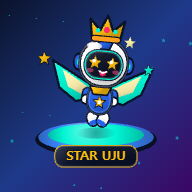
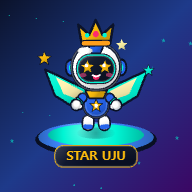
Fix chibi arm rotation sign and z-order, add wrist cuffs and seamless Astro-mitten gloves

Changed region(s): [[0.2188, 0.0625, 0.8125, 0.6875]]

diff --git a/js/art.js b/js/art.js
@@ -166,16 +166,26 @@ export class Art {
         this.rect(side*13-7,by+3,14,18,'#ffffff',7);
         this.rect(side*13-7,by+14,14,6,'#00f5d4',3);
       }
-      // Compact Chibi Bean Torso & Tiny Outstretched Paws
-      for(const side of [-1,1]){
-        const armWave=run?Math.sin(phase+(side>0?Math.PI:0)):0;
-        this.ellipse(side*28,-50+armWave*4,9,8,'#0b132b');
-        this.ellipse(side*28,-50+armWave*4,6,5.5,'#ffffff');
-      }
+      // Compact Chibi Bean Torso
       this.rect(-24,-74,48,54,'#0b132b',22);
       this.rect(-20,-70,40,46,suit,18);
       // Cute Golden Star Capelet / Scarf on Upper Back
       this.poly([[-22,-70],[22,-70],[16,-44],[0,-38],[-16,-44]],'#ffbe0b','#0b132b',3.5);
+      // Outstretched Chubby Chibi Arms & Seamless Mitten Gloves (Drawn AFTER torso, angled OUTWARD via -side!)
+      for(const side of [-1,1]){
+        const armWave=run?Math.sin(phase+(side>0?Math.PI:0)):0;
+        const outward=.52+armWave*.16;
+        c.save();c.translate(side*21,-60);c.rotate(-side*outward);
+        this.rect(-8,-3,16,17,'#0b132b',8);
+        this.rect(-5.5,0,11,12,suit,5.5);
+        this.rect(-8,9,16,6,'#0b132b',3);
+        this.rect(-5.5,10.5,11,3,'#00f5d4',1.5);
+        this.ellipse(-side*6,17,5.2,4.8,'#0b132b');
+        this.ellipse(0,19.5,9.5,9,'#0b132b');
+        this.ellipse(-side*5.5,17,3,2.8,'#ffffff');
+        this.ellipse(0,19.2,6.5,6.2,'#ffffff');
+        c.restore();
+      }
       // Oversized 2-Head Super-Chibi Helmet Back Dome (Clean glossy white & sky-blue cap — no creepy eye slots!)
       for(const side of [-1,1]){
         this.ellipse(side*43,-110,9,13,'#0b132b');
@@ -210,20 +220,7 @@ export class Art {
       c.restore();
     }
 
-    // 2. Outstretched Chubby Chibi Arms (-68..-36) — angled outward so hands NEVER overlap the torso!
-    for(const side of [-1,1]) {
-      const armPhase=phase+(side>0?Math.PI:0)-.32;
-      const armSwing=run?Math.sin(armPhase)*.55:0;
-      const shoulderAngle=side*.42+armSwing-jump*(side*.75)-squash*side*.18-(hurt?side*.4:0);
-      c.save();c.translate(side*23,-66);c.rotate(shoulderAngle);
-      this.rect(-10,-4,20,30,'#0b132b',10);
-      this.rect(-7,-1,14,18,suit,7);
-      this.ellipse(0,18,10,9.5,'#0b132b');
-      this.ellipse(0,18,7,6.5,'#ffffff');
-      c.restore();
-    }
-
-    // 3. Compact, Clean Chibi Bean Torso (-78..-22, width 48px — clean 60-30-10 color blocking!)
+    // 2. Compact, Clean Chibi Bean Torso (-78..-22, width 48px — drawn BEFORE arms so arms & hands are never sliced!)
     this.rect(-25,-78,50,56,'#0b132b',24);
     this.rect(-21,-74,42,48,suit,20);
     // Cute Hero Collar / Scarf & Single Bold Star Emblem on Chest
@@ -231,6 +228,28 @@ export class Art {
     this.star(0,-45,14,'#0b132b');
     this.star(0,-45,10.5,'#ffbe0b');
     this.ellipse(0,-45,3.5,3.5,'#ffffff');
+
+    // 3. Outstretched Chubby Chibi Arms & Seamless Mitten Gloves (Angled OUTWARD with -side*outward so hands are 100% visible!)
+    for(const side of [-1,1]) {
+      const armPhase=phase+(side>0?Math.PI:0)-.32;
+      const armSwing=run?Math.sin(armPhase)*.22+.12:Math.sin(t/720)*.05;
+      const outward=.56+armSwing+jump*.78+squash*.14+(hurt?.35:0);
+      const shoulderAngle=-side*outward;
+      c.save();c.translate(side*21,-63);c.rotate(shoulderAngle);
+      // Tapered Chubby Arm Sleeve
+      this.rect(-9.5,-4,19,20,'#0b132b',9.5);
+      this.rect(-6.5,-1,13,14,suit,6.5);
+      // Glowing Cyan/Gold Wrist Cuff Band
+      this.rect(-9.5,9.5,19,7.5,'#0b132b',3.8);
+      this.rect(-6.5,11.5,13,3.5,gold?'#fff3b0':'#00f5d4',1.8);
+      // Seamless Plump Astro-Mitten Glove + Inner Thumb (Outlines drawn first, then white fills fused together!)
+      this.ellipse(-side*7.5,20,6.5,6,'#0b132b');
+      this.ellipse(0,23,11.5,11,'#0b132b');
+      this.ellipse(0,24.2,8.2,7.2,'#dbeafe');
+      this.ellipse(-side*7,20,3.8,3.5,'#ffffff');
+      this.ellipse(0,22.2,8.2,7.8,'#ffffff');
+      c.restore();
+    }
 
     // 4. Oversized 2-Head Super-Chibi Head (-156..-68, width 94px, height 86px!)
     c.save();

diff --git a/js/adventure-renderer.js b/js/adventure-renderer.js
@@ -315,10 +315,28 @@ export class AdventureRenderer {
     c.save();c.translate(x,y);c.scale(.72,.72);
     a.ellipse(0,0,42,14,'#0d224055');
     a.ellipse(0,-2,30,10,'#00f5d444');
+    // Stubby Chibi Boots
+    for(const side of[-1,1]){
+      a.rect(side*11-9,-16+bob,18,18,'#0b132b',9);
+      a.rect(side*11-6,-13+bob,12,12,'#ffffff',6);
+    }
     // Tiny Stubby Commander Torso (-48..-4, width 44px)
-    a.rect(-22,-50+bob,44,44,'#0b132b',20);
-    a.rect(-18,-46+bob,36,36,'#1d4ed8',16);
-    a.star(0,-28+bob,11,'#ffbe0b');
+    a.rect(-22,-50+bob,44,42,'#0b132b',20);
+    a.rect(-18,-46+bob,36,34,'#1d4ed8',16);
+    a.star(0,-29+bob,11,'#ffbe0b');
+    // Outstretched Chubby Chibi Arms & Seamless Mitten Gloves
+    for(const side of[-1,1]){
+      c.save();c.translate(side*19,-41+bob);c.rotate(-side*.58);
+      a.rect(-8,-3,16,16,'#0b132b',8);
+      a.rect(-5.5,0,11,11,'#1d4ed8',5.5);
+      a.rect(-8,8,16,6,'#0b132b',3);
+      a.rect(-5.5,9.5,11,3,'#ffbe0b',1.5);
+      a.ellipse(-side*6,16,5.2,4.8,'#0b132b');
+      a.ellipse(0,18.5,9.5,9,'#0b132b');
+      a.ellipse(-side*5.5,16,3,2.8,'#ffffff');
+      a.ellipse(0,18,6.5,6.2,'#ffffff');
+      c.restore();
+    }
     // Oversized 2-Head Super-Chibi Commander Head (-122..-42, width 88px, height 78px!)
     for(const side of[-1,1]){
       a.ellipse(side*43,-82+bob,9,13,'#0b132b');

diff --git a/js/harbor-art.js b/js/harbor-art.js
@@ -54,6 +54,13 @@ export function cocoToy(a,x,y,scale=1,time=0){
   a.rect(-19,-36,38,32,'#0b132b',16);
   a.rect(-15,-33,30,26,'#10b981',13);
   a.ellipse(0,-20,10,9,'#fef08a');
+  // Cute Outstretched Chubby Dragon Paws
+  for(const side of[-1,1]){
+    c.save();c.translate(side*16,-25);c.rotate(-side*.58);
+    a.ellipse(0,8,7.5,6.5,'#0b132b');
+    a.ellipse(0,8,4.8,4,'#34d399');
+    c.restore();
+  }
   // Oversized 2-Head Super-Chibi Dragon Head (-86..-26, width 68px!)
   for(const side of[-1,1]){
     a.poly([[side*14,-82],[side*26,-102],[side*28,-78]],'#ffbe0b','#0b132b',4);

diff --git a/sw.js b/sw.js
@@ -1,5 +1,5 @@
 // Generated by npm run pwa. Every release changes when any cached asset changes.
-const VERSION="274d71c0e8da";
+const VERSION="dee7dc436d60";
 const SCOPE=new URL(self.registration.scope);
 const PREFIX='uju-arcade:'+SCOPE.pathname+':';
 const CACHE=PREFIX+VERSION;
